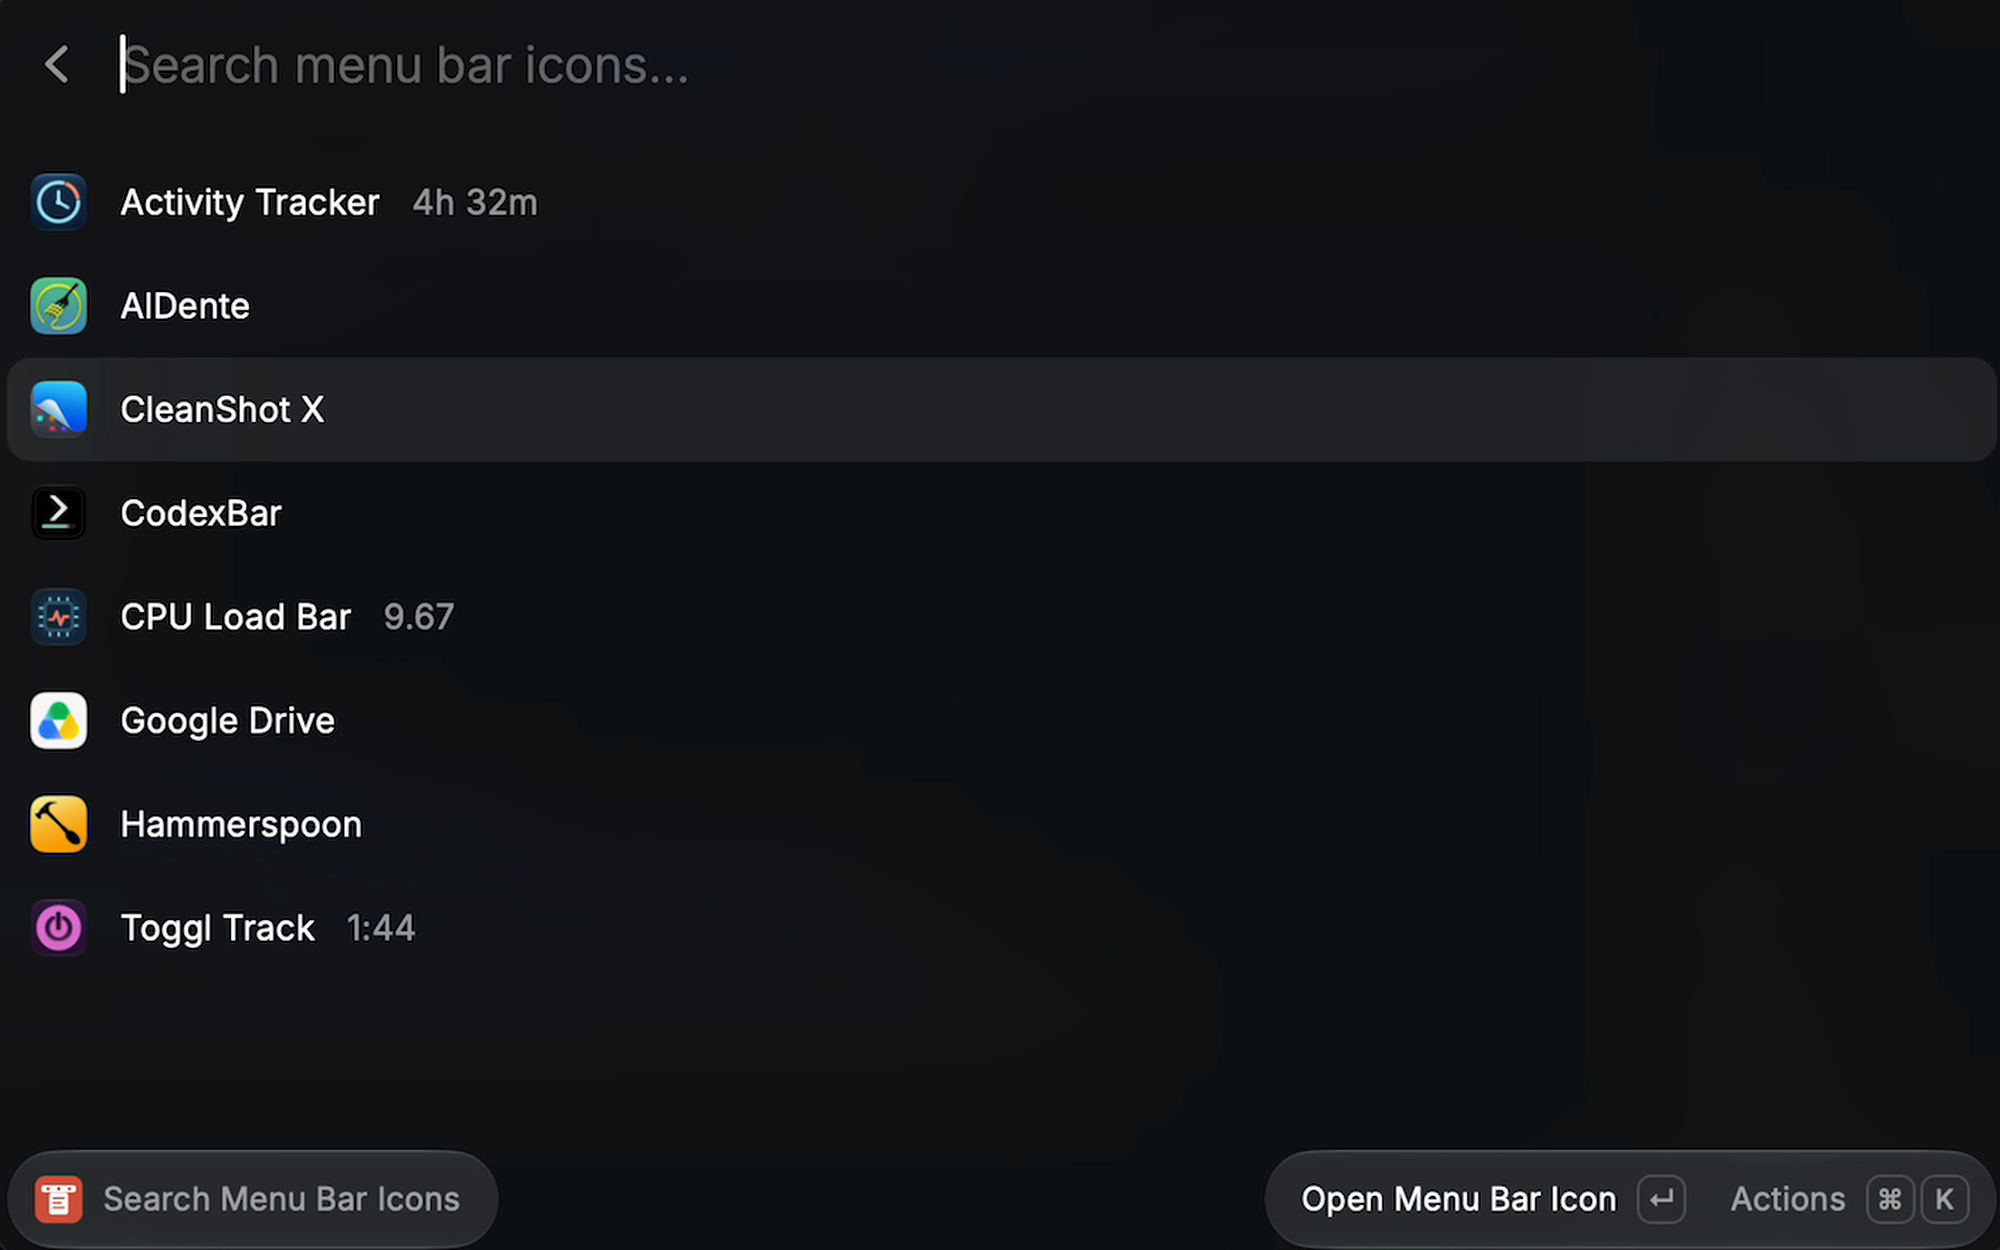
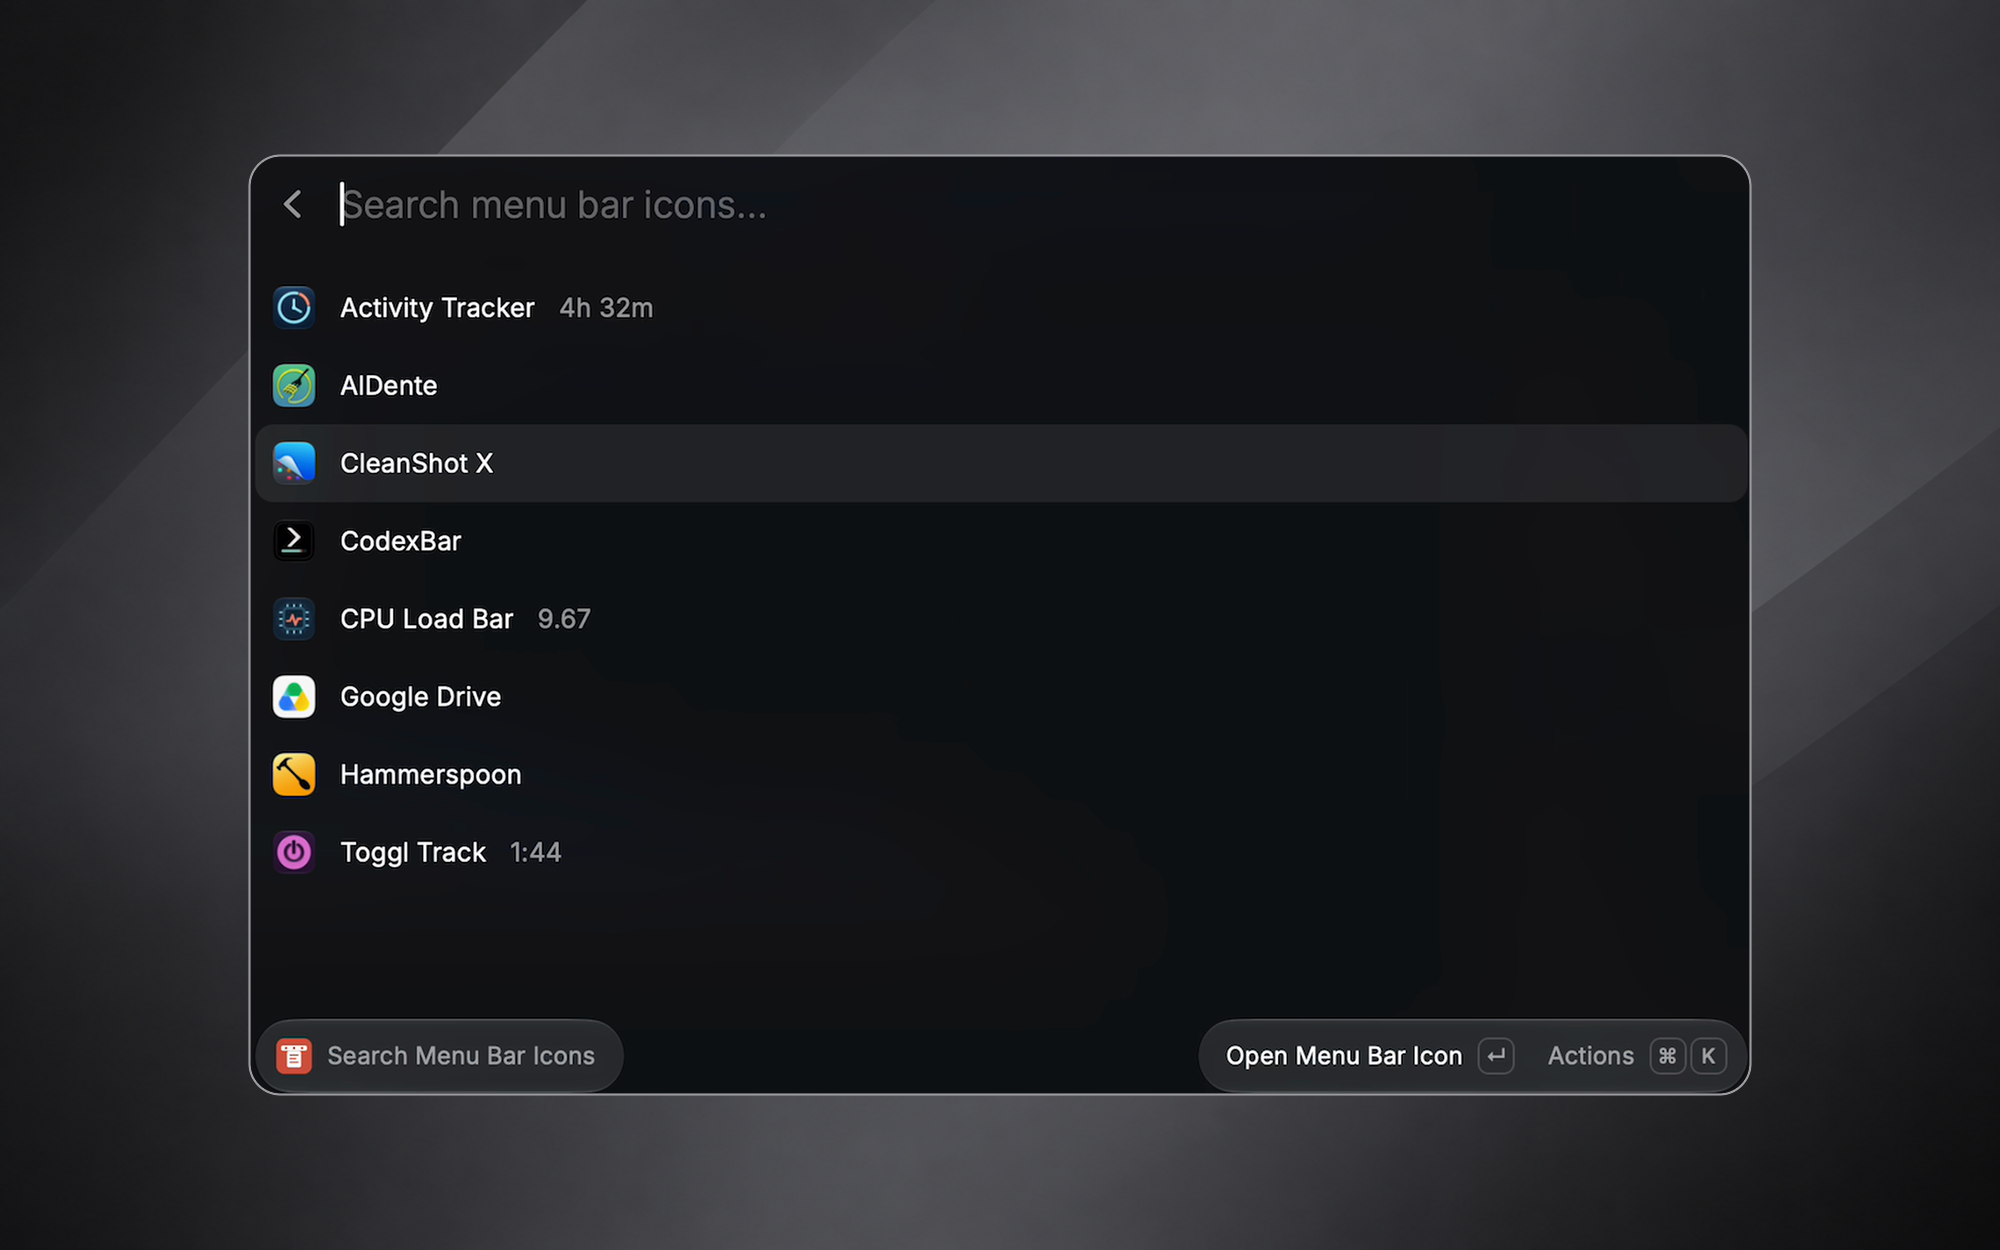
docs: showcase extension in README

diff --git a/README.md b/README.md
@@ -1,10 +1,22 @@
-<img src="media/menu-bar-icon.png" width="64" height="64" alt="Menu Bar Icon Search icon">
+<p align="center">
+  <img src="media/menu-bar-icon.png" width="96" alt="Menu Bar Icon Search icon" />
+</p>
 
-# Menu Bar Icon Search
+<h1 align="center">Menu Bar Icon Search</h1>
 
-**Find a menu bar app, press Return, and open its icon without hunting across the top of your screen.**
+<p align="center">
+  Find a menu bar app, press Return, and open its icon.
+</p>
 
-By **Marc Güell Segarra** · [ondori.dev](https://ondori.dev)
+<p align="center">
+  By <strong>Marc Güell Segarra</strong> · <a href="https://ondori.dev">ondori.dev</a>
+</p>
+
+<p align="center">
+  <img src="media/menu-bar-icon-search-preview.png" width="850" alt="Raycast showing menu bar app icons with CleanShot X selected" />
+  <br />
+  <sub>Search by app or item name, then press Return to open its menu.</sub>
+</p>
 
 Menu Bar Icon Search is a Raycast extension for the app icons on the right side of the macOS menu bar. It can also open icons hidden with macOS's **Menu Bar** setting: it reveals the icon, opens it in the real menu bar, and restores its hidden state when the menu closes.
 
